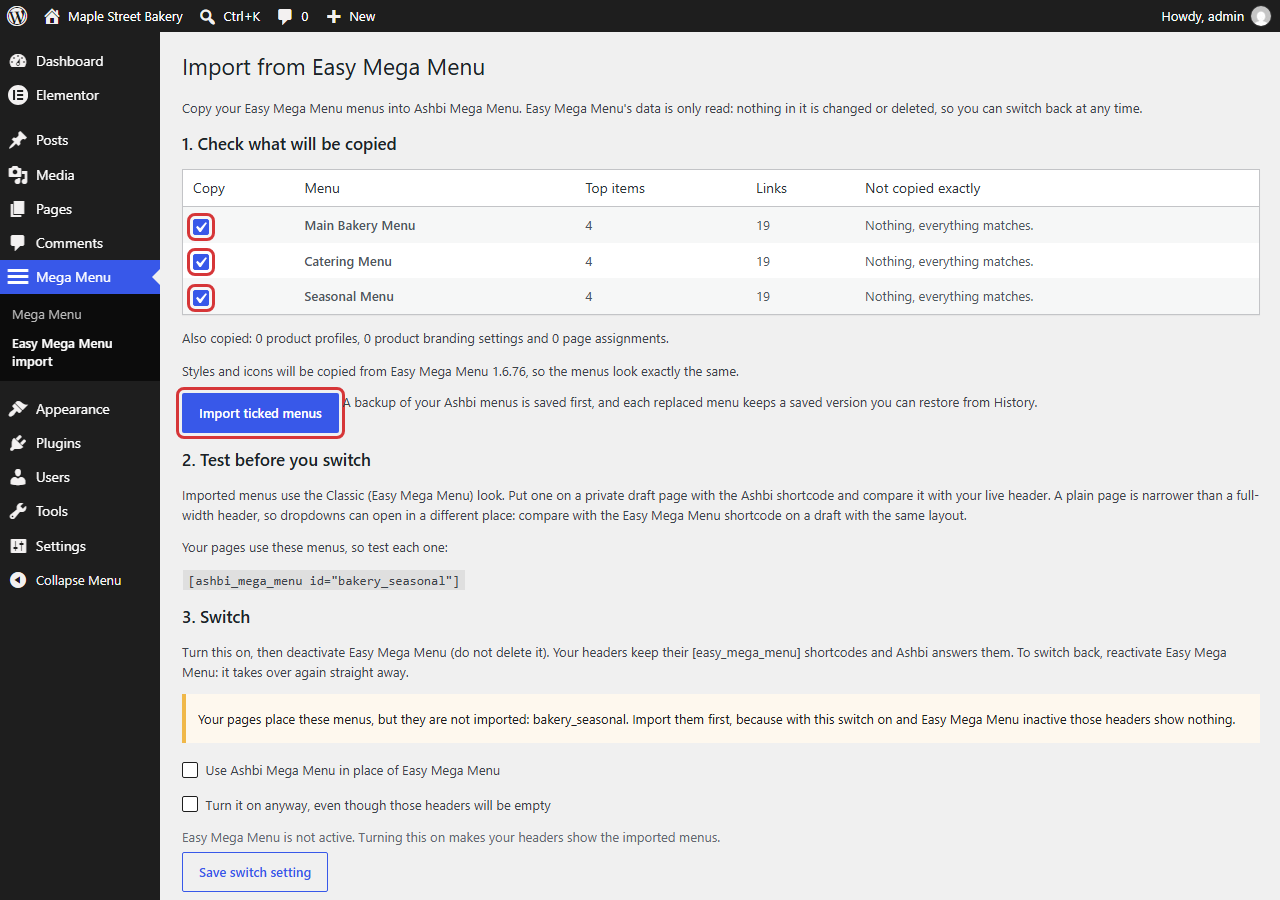
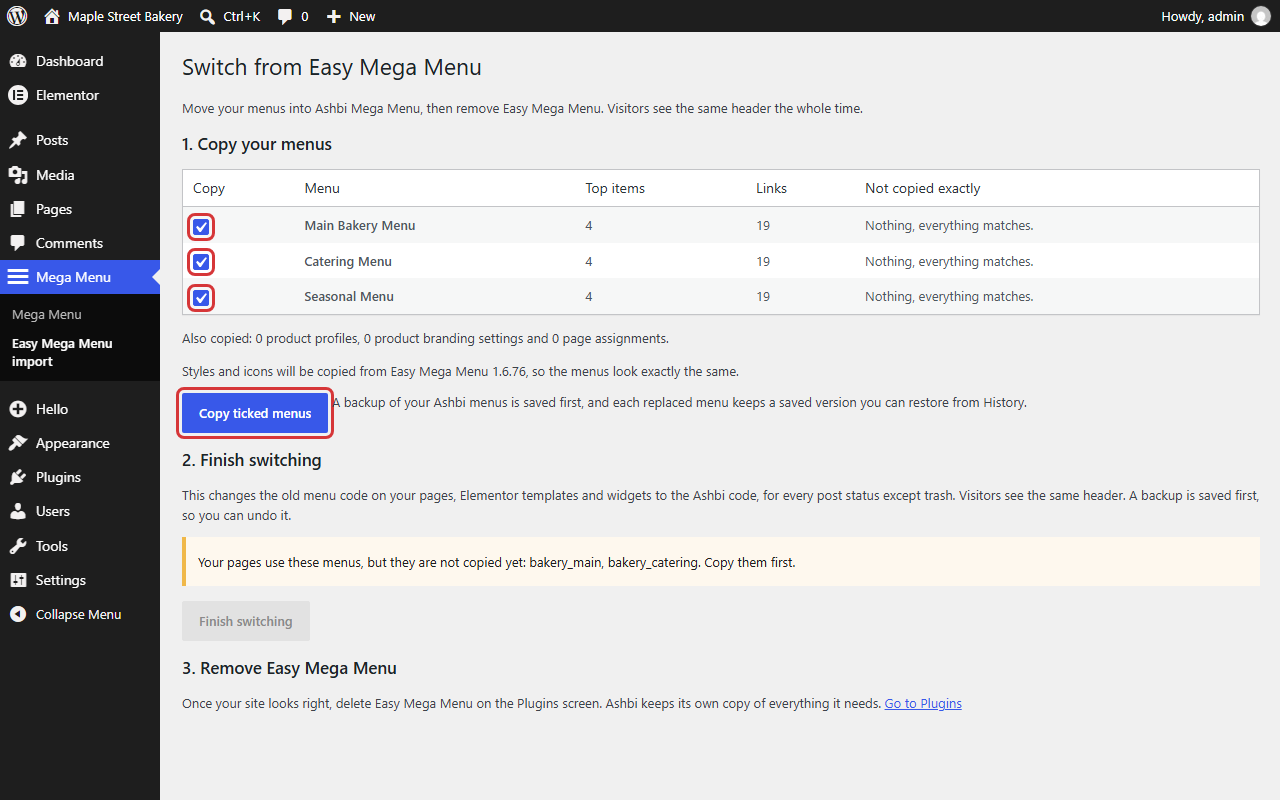
Don't call a fresh copy edited, and clearer switch counts
Items with no ID get a random one on each read, so a just-copied menu looked
edited. Also retakes the two guide screenshots of the switch screen.

diff --git a/includes/class-abmm-emm-migration.php b/includes/class-abmm-emm-migration.php
@@ -341,7 +341,7 @@ class ABMM_EMM_Migration {
 				'conflict' => isset( $existing[ $id ] ) && ! ABMM_Classic::is_classic( $existing[ $id ] ),
 				'exists'   => isset( $existing[ $id ] ),
 				// An earlier import that no longer matches Easy Mega Menu: usually Ashbi edits.
-				'edited'   => isset( $existing[ $id ] ) && ABMM_Classic::is_classic( $existing[ $id ] ) && ABMM_Data::instance()->revision( ABMM_Data::instance()->sanitize_menu( $mapped['menu'] ) ) !== ABMM_Data::instance()->revision( $existing[ $id ] ),
+				'edited'   => isset( $existing[ $id ] ) && ABMM_Classic::is_classic( $existing[ $id ] ) && ABMM_Data::instance()->revision( self::without_ids( ABMM_Data::instance()->sanitize_menu( $mapped['menu'] ) ) ) !== ABMM_Data::instance()->revision( self::without_ids( $existing[ $id ] ) ),
 				'issues'   => $mapped['issues'],
 			);
 		}
@@ -354,6 +354,23 @@ class ABMM_EMM_Migration {
 			'assets_ready' => $plugin && is_readable( $plugin['dir'] . '/assets/css/frontend.css' ) && is_readable( $sprite ),
 			'assets_kept'  => $this->assets_copied(),
 		);
+	}
+
+	/**
+	 * A menu without its item IDs. Items that have none get a new random ID each
+	 * time they are read, which says nothing about whether anyone edited them.
+	 *
+	 * @param array $menu Menu or part of one.
+	 * @return array
+	 */
+	private static function without_ids( $menu ) {
+		unset( $menu['id'] );
+		foreach ( $menu as $key => $value ) {
+			if ( is_array( $value ) ) {
+				$menu[ $key ] = self::without_ids( $value );
+			}
+		}
+		return $menu;
 	}
 
 	private function count_links( $menu ) {

diff --git a/tests/emm-migration.php b/tests/emm-migration.php
@@ -378,6 +378,15 @@ verify_migration( 'emm-classic' === $classic_menu['settings']['render_mode'] && 
 verify_migration( 40 === strlen( $classic_menu['settings']['classic_toggle_label'] ), 'The toggle label is capped.' );
 verify_migration( 'Clean' === ABMM_Data::design_presets()['classic']['label'], 'The default preset no longer shares a name with the Classic look.' );
 
+// A copied menu whose links have no IDs of their own does not look edited.
+$abmm_no_ids = array( 'title' => 'No IDs', 'items' => array( array( 'label' => 'Shop', 'url' => '#', 'type' => 'mega', 'mega_style' => 'simple', 'links' => array( array( 'label' => 'One', 'url' => 'https://example.test/one/' ) ) ) ) );
+$GLOBALS['abmm_options']['emm_menus']['no_ids'] = $abmm_no_ids;
+$migration->import( false, array( 'no_ids' ) );
+$abmm_rows = array_column( $migration->preview()['menus'], null, 'id' );
+verify_migration( ! empty( $abmm_rows['no_ids']['exists'] ) && empty( $abmm_rows['no_ids']['edited'] ), 'A fresh copy of a menu with no item IDs is not reported as edited.' );
+unset( $GLOBALS['abmm_options']['emm_menus']['no_ids'] );
+ABMM_Data::instance()->archive( 'no_ids' );
+
 // A re-import keeps edits unless a row is ticked, and each replaced menu can be rolled back.
 $edited                 = ABMM_Data::instance()->get_all();
 $edited['main_nav']['title'] = 'My edits';

diff --git a/admin/views/emm-import.php b/admin/views/emm-import.php
@@ -37,7 +37,7 @@ $abmm_step          = 0;
 		</div>
 	<?php elseif ( 'finished' === $notice && is_array( $result ) ) : ?>
 		<div class="notice notice-success">
-			<p><?php echo esc_html( sprintf( /* translators: 1: posts and pages, 2: Elementor layouts, 3: widgets. */ __( 'Done. Updated %1$d pages and posts, %2$d Elementor layouts and %3$d widget areas. A backup was saved first.', 'ashbi-mega-menu' ), (int) $result['posts'], (int) $result['elementor'], (int) $result['widgets'] ) ); ?></p>
+			<p><?php echo esc_html( sprintf( /* translators: 1: posts and pages, 2: Elementor layouts, 3: widgets. */ __( 'Done. Pages and posts updated: %1$d. Elementor layouts updated: %2$d. Widget areas updated: %3$d. A backup was saved first.', 'ashbi-mega-menu' ), (int) $result['posts'], (int) $result['elementor'], (int) $result['widgets'] ) ); ?></p>
 			<?php if ( ! empty( $result['failed'] ) ) : ?>
 				<p><?php echo esc_html( sprintf( /* translators: %d: number of places. */ _n( '%d place could not be updated. Its old code still works.', '%d places could not be updated. Their old codes still work.', (int) $result['failed'], 'ashbi-mega-menu' ), (int) $result['failed'] ) ); ?></p>
 			<?php endif; ?>

diff --git a/docs/SHOTLIST.md b/docs/SHOTLIST.md
@@ -66,7 +66,7 @@ These are the screenshots the docs use. Each one is in the docs as an image. If 
 | `28-phone-menu-open.png` | A phone with the drawer open | The menu button and Close | phone-menus |
 | `29-phone-drill.png` | A phone inside a section | **Back** | phone-menus |
 | `30-phone-enhanced.png` | A phone with **Enhanced mobile menu** on | The search box | phone-menus |
-| `31-phone-label.png` | A phone with two stacked Classic menus, using a button label | The label | phone-menus |
+| `31-phone-label.png` | A phone with two stacked menus, using a button label | The label | phone-menus |
 | `42-toolbar-link.png` | A page while logged in, with the toolbar item open on a page with two menus | **Edit mega menu** | user-guide |
 | `46-two-menus.png` | A page showing the theme's old menu above the new one | Both menus | troubleshooting |
 

diff --git a/docs/phone-menus.md b/docs/phone-menus.md
@@ -61,7 +61,7 @@ This is for menus imported from Easy Mega Menu. It is useful when a page shows t
 
 Open **Advanced settings**, then **Mobile navigation**. Type a short word such as "Products" in **Phone menu button label**. Visitors will see it next to the button. Screen readers will read it out too.
 
-![A phone with two stacked Classic menus, using a button label](images/31-phone-label.png)
+![A phone with two stacked menus, using a button label](images/31-phone-label.png)
 
 Leave it empty to show just the icon. That's the default.
 
